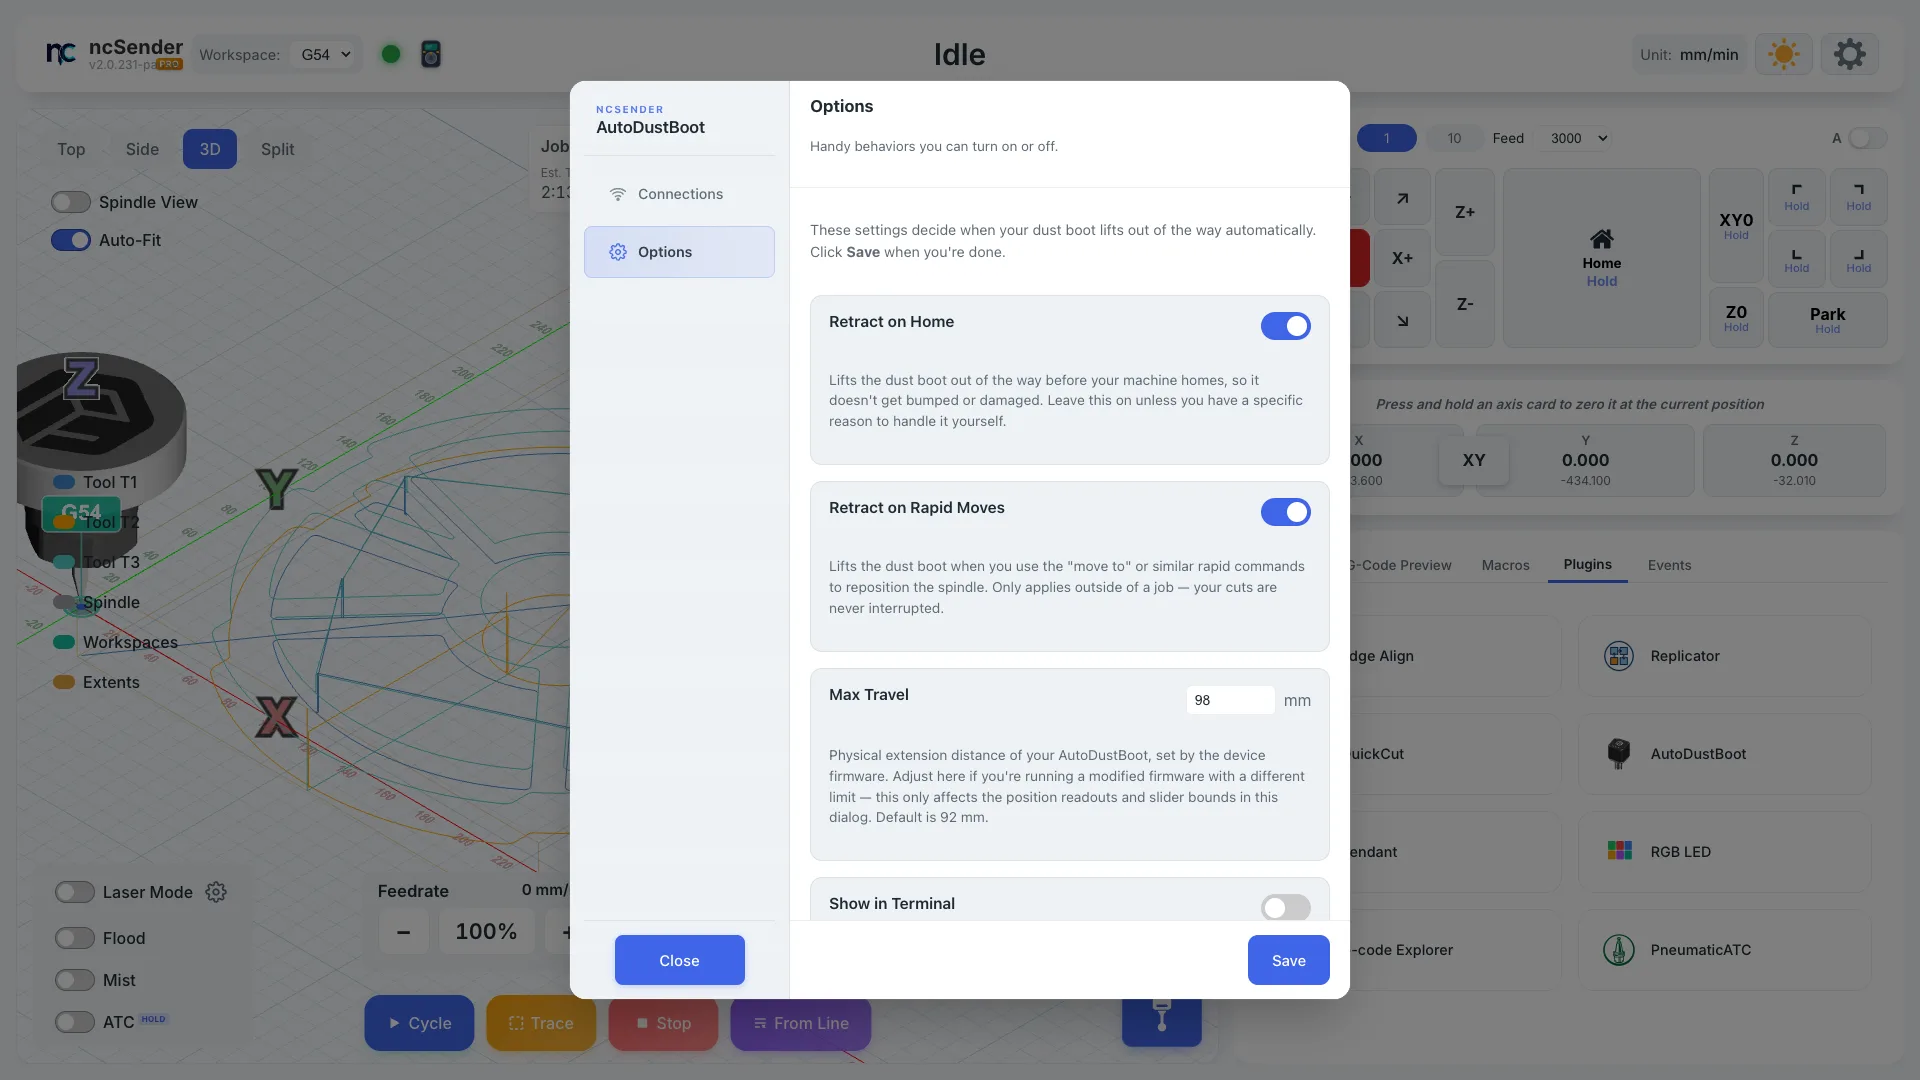
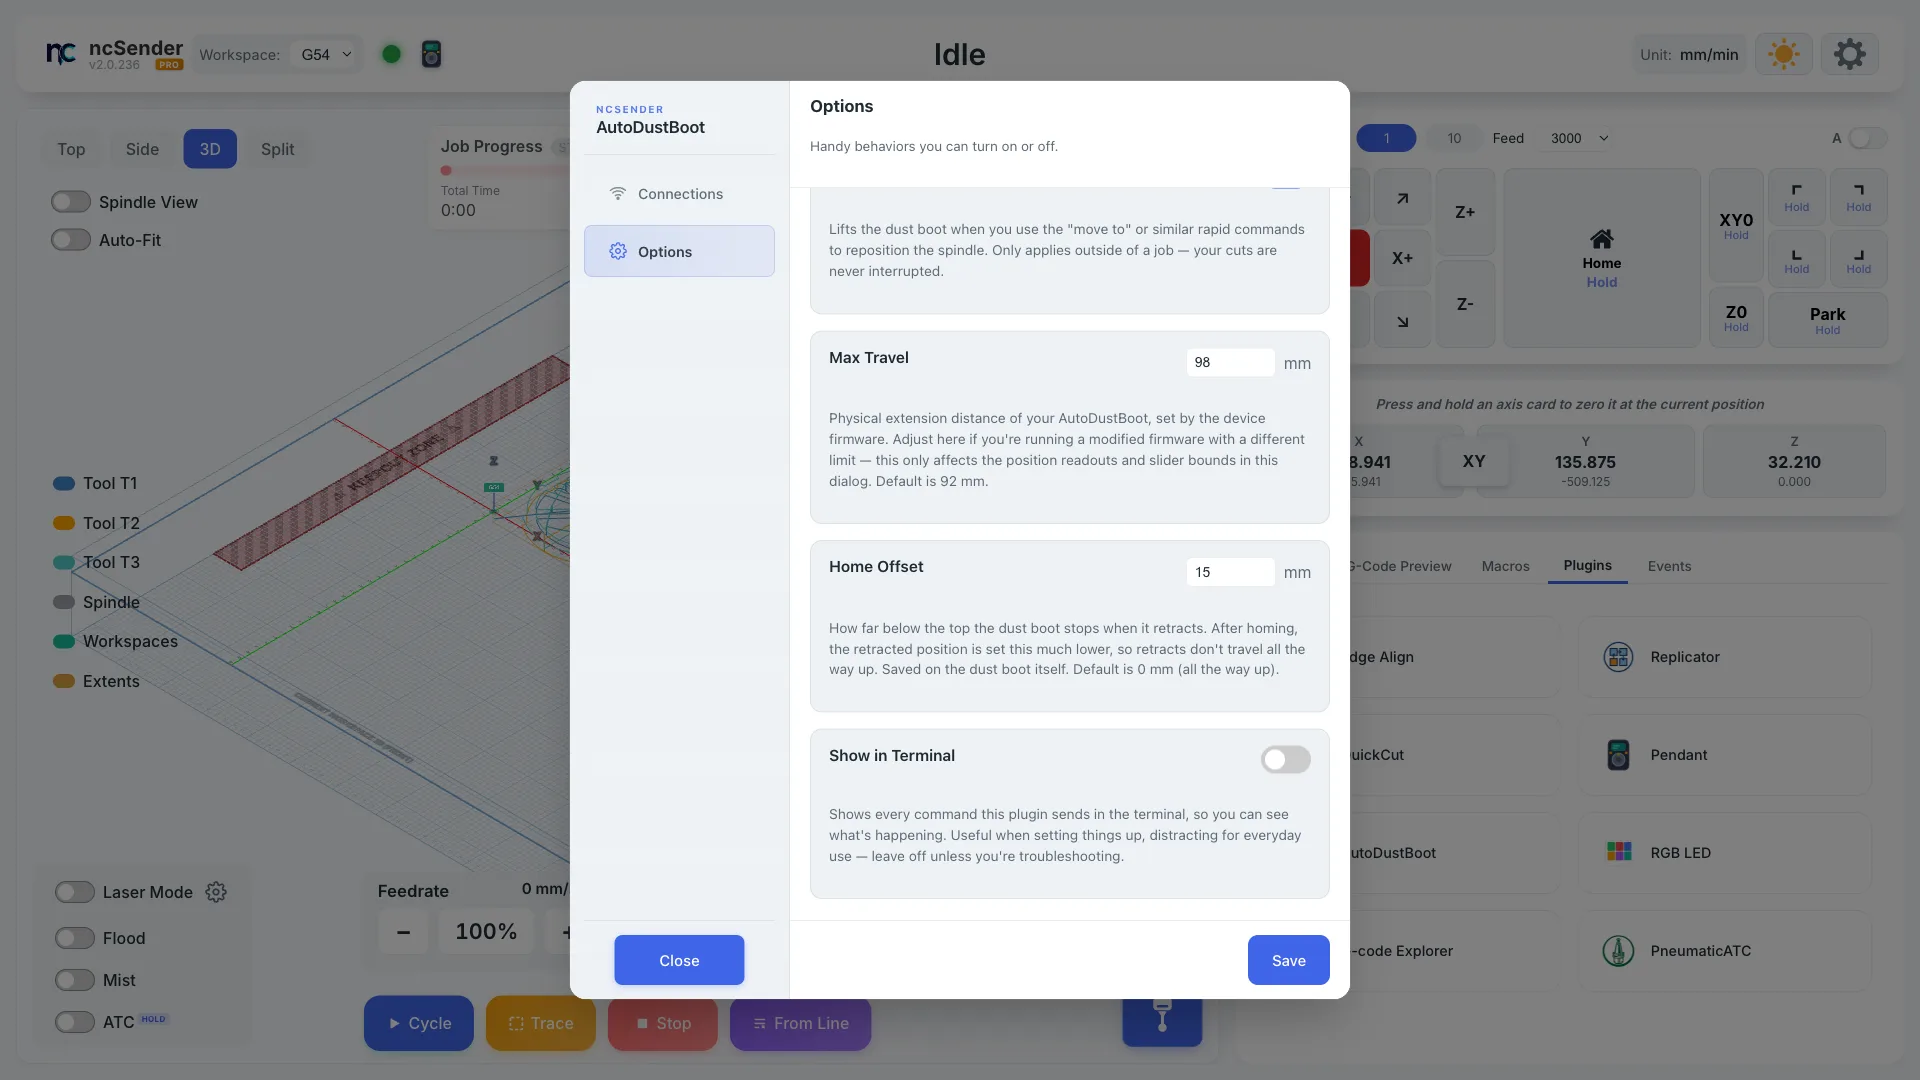
Document the September releases and reshoot their screens
- Settings > Tool Changer (moved Magazine Size / Manual / TLS / Probe,
  Tool Length Measuring, TLS after homing) and the trimmed Tool Library.
- Measuring after power-up: blinking TLS, the blue note, measuring at job
  start, TLS after homing.
- Pneumatic ATC library check when a Z0 was set first; Post Tool Change
  now runs before the return (all three tool changers).
- AutoDustBoot: waits for the boot instead of a fixed pause, the waiting
  card and 'Dust boot not responding' pause, and the new Home Offset.
- Alarm 17 / FAQ / troubleshooting notes.
- New dark/light screenshots for all of the above; capture toolkit points
  at the x86 kiosk (10.0.2.254) and gains batches s7/s8.

Claude-Session: https://claude.ai/code/session_01KxSt6fzfYPhsnYpfoTniWK

diff --git a/docs/features/tool-management.md b/docs/features/tool-management.md
@@ -8,9 +8,12 @@ tool changes for you.
 ## Tool Library
 
 Open **Settings → Tool Library** to keep a list of your bits and assign them to the
-slots (pockets) in your tool magazine.
+slots (pockets) in your tool magazine. The bottom of the tab shows how many tools
+are in the library. The button settings (Magazine Size, Manual, TLS, Probe) are on
+the [Tool Changer tab](#tool-changer-settings).
 
 ![Tool Library settings](../assets/images/features/tool-library.webp)
+
 
 ![Edit Tool dialog](../assets/images/features/tool-edit-dialog.webp)
 
@@ -54,7 +57,8 @@ A tool only takes a magazine slot once you assign it. There are two ways:
   <source src="../../assets/images/features/tool-assign-slot.mp4" type="video/mp4">
 </video>
 
-You can only pick Slot1 up to the **Magazine Size**.
+You can only pick Slot1 up to the **Magazine Size**. Set it on the
+[Tool Changer tab](#tool-changer-settings).
 
 !!! tip "Slots swap automatically"
     If another tool already sits in the slot you pick, the two tools swap. The list
@@ -107,7 +111,13 @@ in the slot picker. It shows as a dashed **PROBE** box in the slot strip.
 The probe can then store a TLO like any other tool. The Probe slot stays assigned
 when you shrink the magazine.
 
-### Tool button controls
+## Tool Changer Settings
+
+Open **Settings → Tool Changer**.
+
+![Settings, Tool Changer tab](../assets/images/features/tool-changer-settings.webp)
+
+### Setup
 
 These settings decide which buttons show in the visualizer:
 
@@ -122,6 +132,21 @@ These settings decide which buttons show in the visualizer:
     by Plugin: …"*. The plugin decides which buttons show. Turn the plugin off to get
     the settings back.
 
+### Tool Length Measuring
+
+This card shows only when **TLS** is on and a tool changer plugin is installed.
+
+After the machine is powered on, the tool in the spindle needs to be measured once
+before it cuts. If you haven't done it, ncSender measures it for you when you start
+a job. See [Measuring after power-up](#measuring-after-power-up).
+
+- **TLS after homing** *(off by default)*: measure the tool right after homing
+  instead of waiting for the job to start.
+
+!!! warning "The machine moves on its own"
+    With **TLS after homing** on, the gantry moves to the tool setter by itself
+    after homing to measure the tool. Keep your hands clear of the machine.
+
 ## Tool Buttons
 
 ![Tool buttons](../assets/images/features/tool-buttons.webp)
@@ -135,6 +160,7 @@ The buttons are, in order:
 - **Probe**: loads your probe tool. The tooltip shows its number, for example
   *Probe (Hold to load T99)*.
 - **TLS**: measures the current tool (see below). It is off when no tool is loaded.
+  It blinks red when the loaded tool hasn't been measured since power-up.
 
 To use the buttons:
 
@@ -221,6 +247,39 @@ Hold **TLS** (or send `$TLS`) to measure:
   <source src="../../assets/images/features/tool-tls-run.mp4" type="video/mp4">
 </video>
 
+### Measuring after power-up
+
+After the machine is powered on, the tool in the spindle has to be measured once
+before it cuts. Until then:
+
+- The **TLS** button blinks red. The [pendant](../accessories/pendant.md)'s TLS
+  blinks too.
+- A blue note on the 3D view says *"T1 hasn't been measured since power-up. Run
+  TLS now, or it's measured automatically when the job starts."* It hides while a
+  job or tool change runs. If you already set Z0, the Z0 note shows instead.
+
+![TLS blinking red and the "not measured since power-up" note](../assets/images/features/tool-unmeasured-notice.webp)
+
+You don't have to do anything. When you press **Cycle Start**, ncSender first
+measures the loaded tool on the tool setter, then starts the program. A blue
+banner says *"Measuring T1 before the job…"* while it happens. This keeps a Z0
+saved in the controller from an earlier session correct.
+
+![Measuring the tool before the job](../assets/images/features/tool-measure-before-job.webp)
+
+It is skipped when:
+
+- the program's first tool change loads a different tool (that change measures
+  anyway),
+- laser mode is on,
+- no tool is loaded,
+- no tool changer plugin with a tool setter is on.
+
+To measure right after homing instead, turn on **TLS after homing** in
+[Settings → Tool Changer](#tool-length-measuring). Homing then ends with a trip to
+the tool setter, and a blue banner says *"Measuring T1 after homing…"*. Once the
+tool is measured, later homes don't measure it again.
+
 ### Set Z0 before or after TLS: both work
 
 You can set Z0 first and measure later, or measure first and set Z0 after. The
@@ -237,7 +296,7 @@ result is the same, and your Z0 is kept either way.
       done.
 - **Measure first, Z0 after.** The classic order: hold **TLS**, then set Z0.
 
-<!-- CAPTURE NEEDED: assets/images/features/tool-z0-kept-notice.webp (Z0 is kept note in the visualizer) -->
+![Z0 is kept note](../assets/images/features/tool-z0-kept-notice.webp)
 
 !!! tip "Coming from gSender?"
     Your habit works here: home, load the bit, probe Z, run the job. At the

diff --git a/docs/accessories/autodustboot.md b/docs/accessories/autodustboot.md
@@ -161,6 +161,11 @@ Choose when the plugin retracts the boot.
   it is sent to the controller as the bottom soft limit and saved there. Only
   change it if your boot has a different stroke than the shipped firmware.
   Accepts 10–500 mm.
+- **Home Offset** *(0 mm by default)* — how far below the top the boot stops
+  when it retracts. With 0 it goes all the way up. Set, say, 10 mm and every
+  retract stops 10 mm lower, which is quicker and keeps it off the top stop.
+  The setting is saved on the boot itself (V2 with firmware 1.0.12 or newer)
+  and takes effect right away, no re-homing needed. Accepts 0–50 mm.
 - **Show in Terminal** *(off by default)* — shows the plugin's commands in the
   console. Turn it on when troubleshooting.
 
@@ -190,11 +195,40 @@ doesn't move twice.
 **Console rapids (`G0`).** With *Retract on Rapid Moves* on, retracts before a
 `G0` sent from the console or a macro.
 
+**Waiting for the boot (Wireless).** In **Wireless** mode, whether the boot is
+linked over the air or by a USB cable, the machine waits after each retract or
+expand until the boot reports that it got there. If it is already in
+place, for example a retract when it is already up, there is no wait at all. A
+slow move is waited out, so the machine never moves on too early. In **Wired**
+mode, the `G4` pauses in your sequences set the wait, as before.
+
+### If the boot doesn't answer
+
+If the boot is offline (its radio is reconnecting) or doesn't report that it
+reached its position, a violet card says *"Waiting for the dust boot to answer.
+Its last move is sent again as soon as it reconnects."* ncSender sends the move
+again for you.
+
+![Waiting for the dust boot to answer](../assets/images/accessories/autodustboot-waiting.webp)
+
+If it still doesn't answer (about 10 seconds at most), the job pauses and
+**Dust boot not responding** opens:
+
+- **Continue**: only after you have checked the boot is clear of the tool and
+  the work.
+- **Abort**: stop the job.
+
+![Dust boot not responding](../assets/images/accessories/autodustboot-not-responding.webp)
+
 ## Troubleshooting
 
 - **Wired: boot doesn't respond.** Check the wiring and polarity. Type the
   matching command in the console (e.g. `M8` for Flood, or `M64 P0` for an aux
   pin) and watch the boot move.
+- **Wireless: the job paused with "Dust boot not responding".** The boot
+  didn't confirm its move. Look at the boot and make sure it is clear of the
+  tool and the work before you press **Continue**. If it happens often, check
+  that it shows **Connected** in **Accessories**.
 - **Wireless: boot doesn't retract on tool change.** Open **Accessories** and
   select **AutoDustBoot**. If it isn't **Connected**, power-cycle the
   controller. If it still doesn't connect, pair it again.

diff --git a/docs/plugins/manual-tool-changer.md b/docs/plugins/manual-tool-changer.md
@@ -87,11 +87,18 @@ and can damage the Solo. See
 Add your own G-code to run at each step:
 
 - **Pre Tool Change**: at the start of every tool change.
-- **Post Tool Change**: at the end of every tool change.
+- **Post Tool Change**: after the new bit is loaded and measured, before the
+  spindle goes back to where the change started.
 - **Pre TLS**: just before measuring, for example `M64 P1` to switch on a wired
   tool setter.
 - **Post TLS**: just after measuring, for example `M65 P1` to switch it off.
 - **Abort Event**: when you press **Abort** during a tool change.
+
+The **Post Tool Change** code runs once the new tool is loaded and measured and
+the spindle has left the tool setter at safe Z, **before** the machine goes back to
+where the tool change started. Use it for steps like picking up a dust shoe. It
+runs the same way for a tool change you start by hand, not only during a job.
+**Post TLS** still runs at the tool setter, right after measuring.
 
 ## Options
 
@@ -112,13 +119,18 @@ can copy it into your own program or post-processor.
     - **Loading**: put in the new bit.
     - **Tool Change**: swap the bit for the new one.
 4. Press **Continue**, or **Abort** to stop.
-5. The machine measures the new bit on the tool setter.
+5. The machine measures the new bit on the tool setter, then lifts to safe Z
+   and runs your **Post Tool Change** code, if any.
 6. The spindle goes back to where it was before the change, at safe height,
    before the job carries on. The spindle starts there, not above the tool
    setter.
 
 If you set Z0 before any tool was measured, the change first measures the bit
-that is still in the spindle, so your Z0 carries over to the new bit. See
+that is still in the spindle, so your Z0 carries over to the new bit. A bit
+that hasn't been measured since power-up is measured for you when you start a
+job. See
+[Measuring after power-up](../features/tool-management.md#measuring-after-power-up)
+and
 [Set Z0 before or after TLS](../features/tool-management.md#set-z0-before-or-after-tls-both-work).
 
 A highlighted tool button is the bit that is loaded now. Long-press it to

diff --git a/docs/plugins/pneumatic-atc.md b/docs/plugins/pneumatic-atc.md
@@ -109,6 +109,12 @@ rack, swaps the tool and returns to where it left off. The header reads
 Manual tools, numbered above your slot count, are always measured, whatever
 the strategy. They are fitted by hand, so their length changes every time.
 
+With **Use tool library offset**, if you set Z0 before any tool was measured,
+the change still touches off the tool coming out, so your Z0 carries over. If
+that measurement matches the tool's saved length (within 0.05 mm), the new
+tool's saved length is used and it isn't measured. If it doesn't match, the new
+tool is measured as usual.
+
 ### Measure all tools
 
 Press **Measure all tools…** to load every tool that has a rack slot, measure
@@ -196,6 +202,12 @@ Add your own G-code to run at each step:
 - **Abort Event**: when a tool change is aborted. The plugin always clamps the
   drawbar first, then runs this. Leave it empty if you need nothing extra.
 
+The **Post Tool Change** code runs once the new tool is loaded and measured and
+the spindle has left the rack and tool setter at safe Z, **before** the machine goes back to
+where the tool change started. Use it for steps like picking up a dust shoe. It
+runs the same way for a tool change you start by hand, not only during a job.
+**Post TLS** still runs at the tool setter, right after measuring.
+
 ## Advanced
 
 ![Advanced tab](../assets/images/plugins/patc-advanced.webp)
@@ -218,7 +230,10 @@ reaches a tool change does the same. The machine puts the current tool back in
 its slot, picks up the new one and measures it.
 
 If you set Z0 before any tool was measured, the change first measures the tool
-that is still in the spindle, so your Z0 carries over. See
+that is still in the spindle, so your Z0 carries over. A tool that hasn't been
+measured since power-up is measured for you when you start a job. See
+[Measuring after power-up](../features/tool-management.md#measuring-after-power-up)
+and
 [Set Z0 before or after TLS](../features/tool-management.md#set-z0-before-or-after-tls-both-work).
 
 You can also type these in the console:

diff --git a/docs/settings/alarms.md b/docs/settings/alarms.md
@@ -51,7 +51,7 @@ You can also type `$X` in the console.
 | 14 | Spindle did not reach speed | The spindle didn't reach the set RPM in time. Check the VFD and spindle, then unlock and retry. See [VFD Setup](../resources/vfd-setup.md). |
 | 15 | Second limit switch not found | The auto-squared axis couldn't find its second switch. Check both switches and wiring, then re-home. |
 | 16 | Controller self-test failed | Power-cycle the controller. If it repeats, check the board and drivers. |
-| 17 | Motor fault | A motor driver reported a fault. If this started right after turning on motor fault inputs, the input reads backwards. See [below](#alarms-that-point-to-a-setting). Otherwise check motor wiring and driver temperature, power-cycle, then re-home. |
+| 17 | Motor fault | A motor driver reported a fault. Right after an E-stop, drivers can flag a fault while their power comes back: wait a few seconds, then unlock. If this started right after turning on motor fault inputs, the input reads backwards. See [below](#alarms-that-point-to-a-setting). Otherwise check motor wiring and driver temperature, power-cycle, then re-home. |
 | 18 | Homing not configured correctly | Homing settings are invalid. Check the homing settings (`$22`, `$23`, `$44`–`$47`) before homing again. |
 | 19 | Modbus communication error | The controller lost contact with the VFD. Check the RS485 cable and VFD power, then unlock. |
 | 20 | I/O expander not responding | Check the I/O expander's wiring and power-cycle the controller. |

diff --git a/docs/plugins/rapid-change-atc.md b/docs/plugins/rapid-change-atc.md
@@ -125,6 +125,12 @@ Add your own G-code to run at each step:
 - **Post TLS**: just after measuring, for example `M65 P1` to switch it off.
 - **Abort Event**: when a tool change is aborted.
 
+The **Post Tool Change** code runs once the new tool is loaded and measured and
+the spindle has left the magazine and tool setter at safe Z, **before** the machine goes back to
+where the tool change started. Use it for steps like picking up a dust shoe. It
+runs the same way for a tool change you start by hand, not only during a job.
+**Post TLS** still runs at the tool setter, right after measuring.
+
 ## Change a tool
 
 <!-- CAPTURE NEEDED: assets/images/plugins/rcatc-tool-change.webp (Tool change) -->
@@ -135,7 +141,10 @@ picks up the new one and measures it, then goes back to where it was before
 the change at safe height. The spindle starts there, not above the tool setter.
 
 If you set Z0 before any tool was measured, the change first measures the tool
-that is still in the spindle, so your Z0 carries over. See
+that is still in the spindle, so your Z0 carries over. A tool that hasn't been
+measured since power-up is measured for you when you start a job. See
+[Measuring after power-up](../features/tool-management.md#measuring-after-power-up)
+and
 [Set Z0 before or after TLS](../features/tool-management.md#set-z0-before-or-after-tls-both-work).
 
 If a tool doesn't come off or go on, you see **Unload Failed** or

diff --git a/docs/faq.md b/docs/faq.md
@@ -179,6 +179,9 @@ motor fault inputs are turned on.
 **Settings → Firmware**), then unlock. If the alarm appears at another time,
 check the motor wiring and driver temperature, power-cycle and re-home.
 
+Right after an E-stop, the drivers can flag a fault while their power comes
+back. Wait a few seconds, then unlock.
+
 ## Connection and performance
 
 ### The controller is found but nothing responds
@@ -291,6 +294,14 @@ Home first. After that, either order works with a tool changer plugin:
   before it comes out, so your Z0 carries over to the next bit.
 
 See [Set Z0 before or after TLS](features/tool-management.md#set-z0-before-or-after-tls-both-work).
+
+### The machine goes to the tool setter when I start a job
+
+The tool in the spindle hasn't been measured since the machine was powered on.
+ncSender measures it first, then starts the program. Run **TLS** yourself
+before the job if you'd rather choose when it happens, or turn on
+**TLS after homing** in **Settings → Tool Changer**. See
+[Measuring after power-up](features/tool-management.md#measuring-after-power-up).
 
 ### The bit plunged into the work after the first tool change
 

diff --git a/docs/accessories/pendant.md b/docs/accessories/pendant.md
@@ -191,8 +191,9 @@ you enable, disable or change the plugin. With no tool changer set up, the
 picker is hatched out and can't be selected.
 
 **TLS (bottom).** Measure the tool length. Hold for 1 second, or press
-**Exec**. When a tool is loaded but its length hasn't been measured, **TLS**
-glows red, the same as in ncSender, to remind you to measure it. TLS is hatched
+**Exec**. When a tool is loaded but hasn't been measured since power-up,
+**TLS** blinks red, the same as in ncSender, to remind you to measure it. See
+[Measuring after power-up](../features/tool-management.md#measuring-after-power-up). TLS is hatched
 out when your tool changer has no tool length setter.
 
 **Footer.** **Prev / Next** move between items. **Exec** runs the chosen item.

diff --git a/docs/troubleshooting.md b/docs/troubleshooting.md
@@ -39,6 +39,13 @@ active. See the FAQ:
 - [My machine shows an alarm right after power-on](faq.md#my-machine-shows-an-alarm-right-after-power-on)
 - [Unlock does nothing](faq.md#unlock-does-nothing)
 
+### Disconnects After a Reset, or a Job Stalls on Wireless USB
+
+Older versions could drop the connection when the controller sent garbled data,
+for example after a reset during a motor fault alarm. A job could also stall
+when the Wireless USB stopped accepting data. Both are fixed. Update ncSender to
+the latest version.
+
 ## Visualizer Issues
 
 ### G-Code Not Rendering

diff --git a/scripts/capture/README.md b/scripts/capture/README.md
@@ -1,6 +1,6 @@
 # Capture toolkit
 
-Drives the ncSender kiosk (Radxa, 10.0.2.117) to reshoot the manual's screenshots
+Drives the ncSender kiosk (x86, 10.0.2.254; `KIOSK_IP` to override) to reshoot the manual's screenshots
 and clips. Every capture is taken twice, dark and light; the light file gets a
 `-light` suffix and `assets/js/theme-media.js` swaps it in when the reader uses the
 light scheme. Run `python3 scripts/theme-media-manifest.py` after adding captures.
